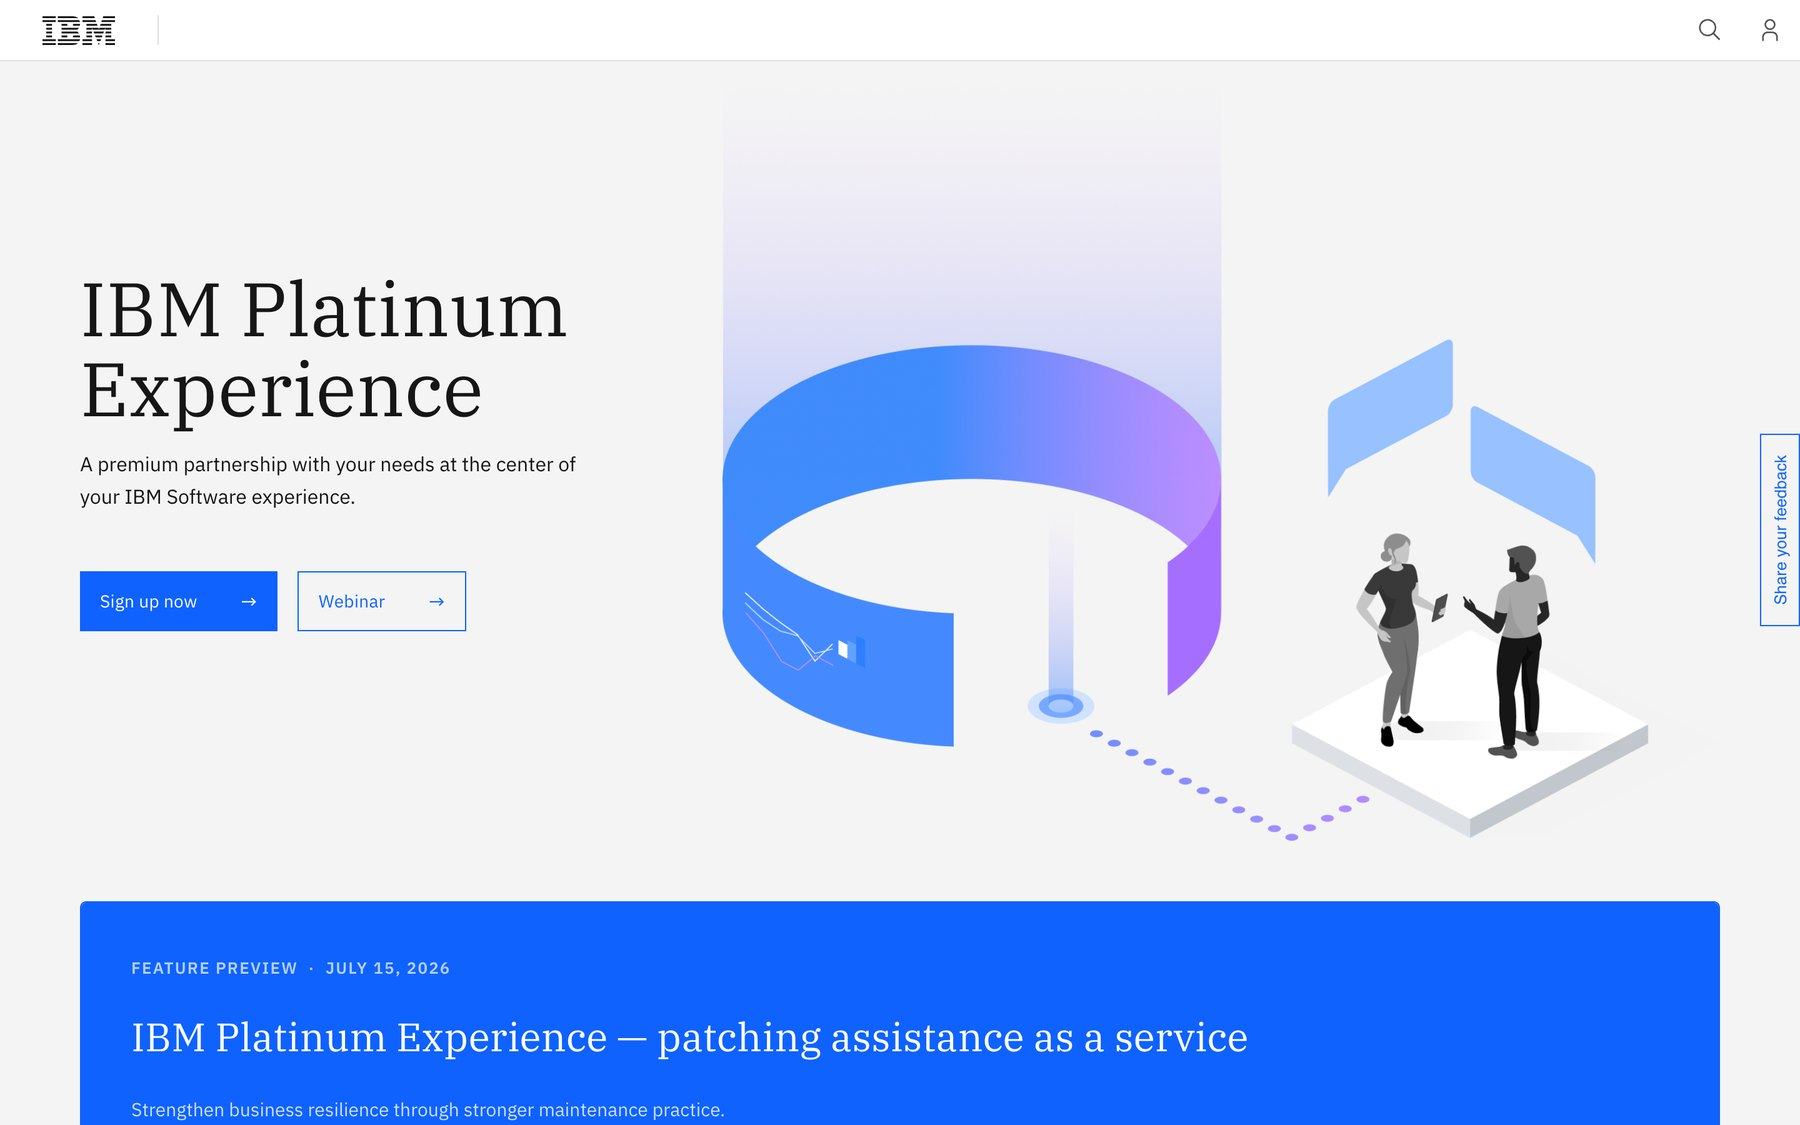
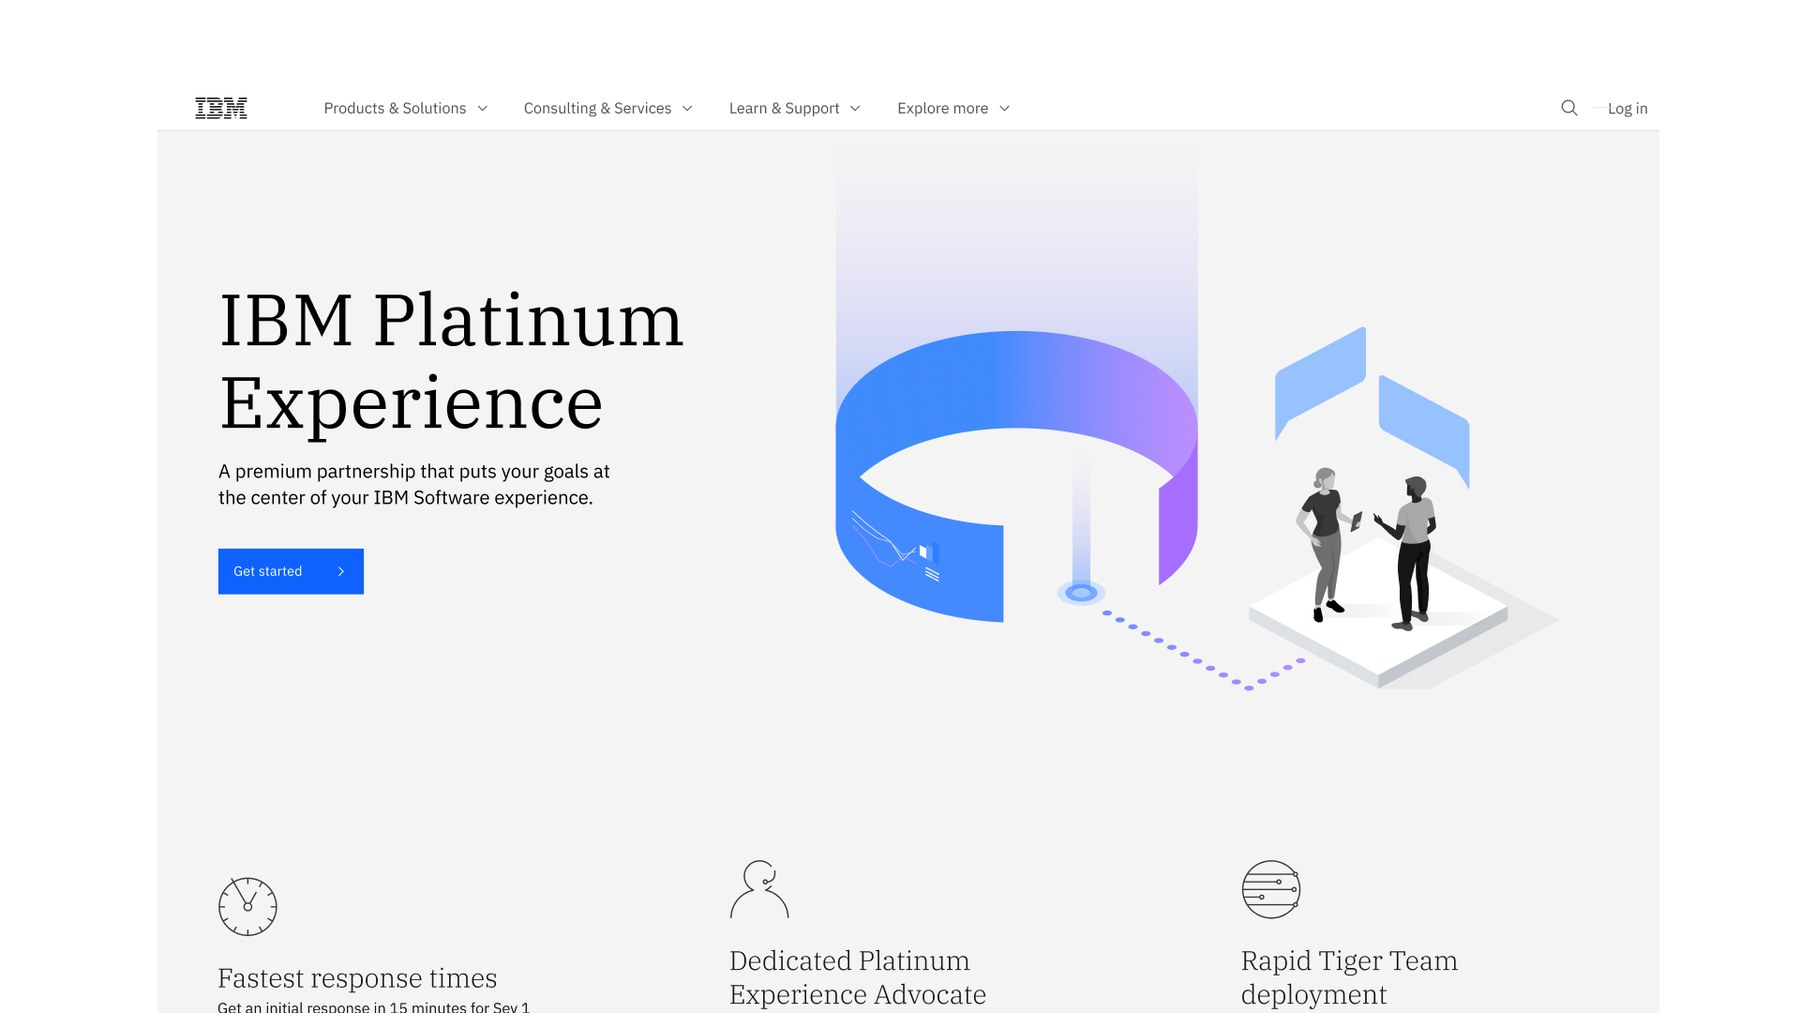
Swap in Brayden's own export of the live Support page

diff --git a/ibm.html b/ibm.html
@@ -934,7 +934,7 @@ body[data-page="about"] .nav__links a[href="about.html"]::after{transform:scaleX
   <figure class="shot">
     <img src="images/ibm-platinum.jpg"
          alt="One of the redesigned IBM Support pages, live on ibm.com"
-         width="1800" height="1125" loading="lazy">
+         width="1800" height="1013" loading="lazy">
     <figcaption>Live on IBM.com</figcaption>
   </figure>
 

diff --git a/src/ibm.html b/src/ibm.html
@@ -91,7 +91,7 @@
   <figure class="shot">
     <img src="images/ibm-platinum.jpg"
          alt="One of the redesigned IBM Support pages, live on ibm.com"
-         width="1800" height="1125" loading="lazy">
+         width="1800" height="1013" loading="lazy">
     <figcaption>Live on IBM.com</figcaption>
   </figure>
 
